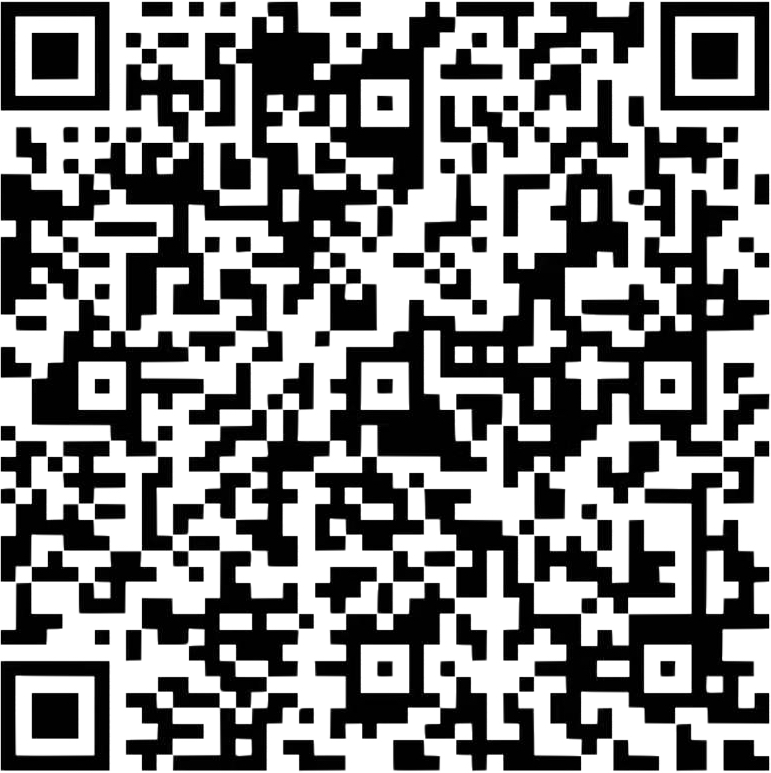
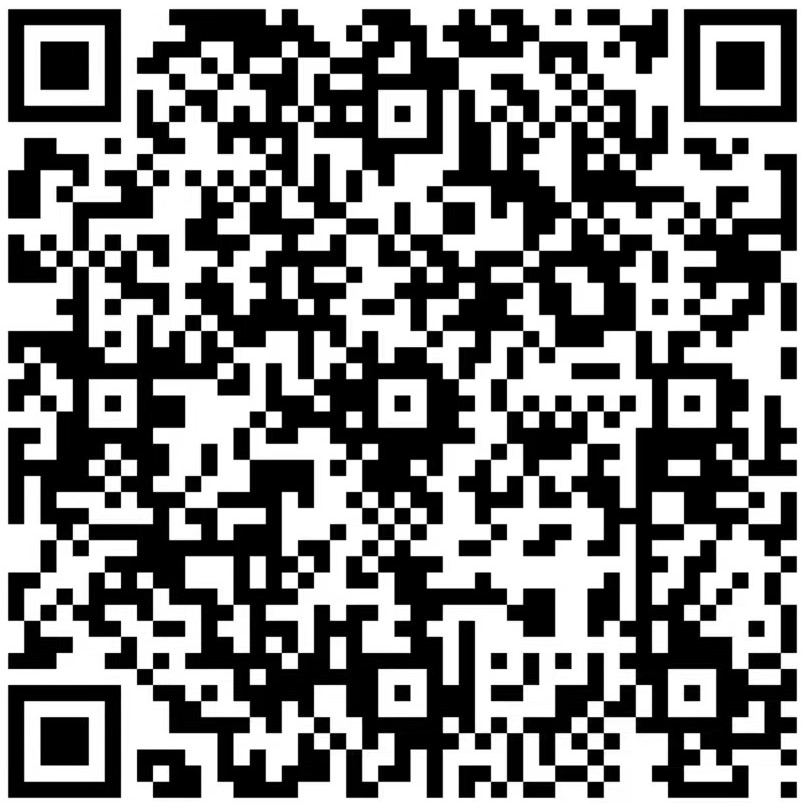
支持一键注册后端

diff --git a/templates/freshman-top.html b/templates/freshman-top.html
@@ -84,7 +84,7 @@
                                             <button class="btn btn-outline-primary btn-sm flex-fill mx-1" type="button"
                                              onclick="expandForm()"
                                              >认证身份信息</button>
-                                            <button class="btn btn-outline-primary btn btn-sm flex-fill mx-1" type="sumbit"  >企业微信一键注册</button>
+                                            <button class="btn btn-outline-primary btn btn-sm flex-fill mx-1" name="type" value="wechat" type="sumbit"  >企业微信一键注册</button>
                                         </div>
                                         <div class="extra-info d-none">
                                             <div class="form-group">

diff --git a/app/views.py b/app/views.py
@@ -1141,6 +1141,47 @@ def accountSetting(request: HttpRequest):
         return render(request, "org_account_setting.html", locals())
 
 
+def _create_freshman_account(sid: str, email: str = None):
+    """创建用户和自然人，检查并修改新生创建状态，原子化操作"""
+    try:
+        with transaction.atomic():
+            current = "获取新生信息"
+            freshman: Freshman = Freshman.objects.select_for_update().get(sid=sid)
+            name = freshman.name
+            np_gender = (NaturalPerson.Gender.MALE
+                         if freshman.gender == "男" else
+                         NaturalPerson.Gender.FEMALE)
+            current = "确认注册状态"
+            assert freshman.status != Freshman.Status.REGISTERED
+            if email is None:
+                domain = "stu.pku.edu.cn" if freshman.grade.startswith("1") else "pku.edu.cn"
+                email = f"{sid}@{domain}"
+            current = "随机生成密码"
+            password = hash_coder.encode(name + str(random.random()))
+            current = "创建用户"
+            user = User.objects.create_user(
+                username=sid, name=name,
+                usertype=UTYPE_PER,
+                password=password
+            )
+            current = "创建个人账号"
+            NaturalPerson.objects.create(
+                person_id=user,
+                stu_id_dbonly=sid,
+                name=name,
+                gender=np_gender,
+                stu_major="元培计划（待定）",
+                stu_grade=freshman.grade,
+                email=email,
+            )
+            current = "更新注册状态"
+            freshman.status = Freshman.Status.REGISTERED
+            freshman.save()
+        return
+    except:
+        return current
+
+
 @log.except_captured(source='views[freshman]', record_user=True,
                      record_request_args=True, show_traceback=True)
 def freshman(request: HttpRequest):
@@ -1158,23 +1199,82 @@ def freshman(request: HttpRequest):
     address_list = sorted(address_set)
     address_list.append("其它")
     html_path = "freshman-top.html"
+    # 准备创建用的变量
+    need_create = False
     if request.method == "POST":
         # 这些也是失败时的前端使用量
         try:
             sid = request.POST["sid"]
             sname = request.POST["sname"]
             gender = request.POST["gender"]
-            birthday = request.POST["birthday"] # 前端使用
-            birthplace = request.POST["birthplace"]
-            email = request.POST["email"]
+            send_to = request.POST.get("type", "")
+            check_more = not send_to
+            if check_more:
+                birthday = request.POST["birthday"] # 前端使用
+                birthplace = request.POST["birthplace"]
+                email = request.POST["email"]
         except:
             err_msg = "提交信息不足"
             return render(request, html_path, locals())
         try:
             sid = str(sid)
-            freshman = Freshman.objects.get(sid=sid)
+            sname = str(sname)
+            gender = str(gender)
+            if check_more:
+                birthday_date = datetime.strptime(birthday, "%Y-%m-%d").date()
+                birthplace = str(birthplace)
+                email = str(email)
         except:
-            err_msg = "不存在该学号信息，你真的是新生吗？"
+            err_msg = "错误的个人信息格式"
+            return render(request, html_path, locals())
+        try:
+            freshman: Freshman = Freshman.objects.get(sid=sid)
+        except:
+            err_msg = "暂不存在该学号的新生信息"
+            return render(request, html_path, locals())
+        try:
+            assert freshman.name == sname, "姓名不匹配"
+            assert freshman.gender == gender, "个人信息错误"
+            if check_more:
+                assert freshman.birthday == birthday_date, "个人信息错误"
+                if freshman.place != "":
+                    assert freshman.place == birthplace, "生源地错误"
+                else:
+                    assert "其它" == birthplace, "生源地错误"
+                assert "@" in email, "请使用合法的邮件地址"
+            assert gender in ["男", "女"], "性别数据异常，请联系管理员"
+        except Exception as e:
+            err_msg = str(e)
+            return render(request, html_path, locals())
+        if check_more:
+            need_create = True
+        elif send_to == "wechat":
+            from wechat_send import send_wechat
+            auth = hash_coder.encode(sid + "_freshman_register")
+            send_wechat(
+                [sid], "新生注册邀请\n点击按钮即可注册账号",
+                url=f"/freshman/?sid={sid}&auth={auth}"
+            )
+            err_msg = "已向企业微信发送注册邀请，点击邀请信息即可注册！"
+            return render(request, html_path, locals())
+    
+    if request.GET.get("sid") is not None and request.GET.get("auth") is not None:
+        sid = request.GET["sid"]
+        auth = request.GET["auth"]
+        if auth != hash_coder.encode(sid + "_freshman_register"):
+            err_msg = "密钥错误，验证失败"
+            return render(request, html_path, locals())
+        need_create = True
+
+    if need_create:
+        try:
+            email = email
+        except:
+            email = None
+        try:
+            freshman: Freshman = Freshman.objects.get(sid=sid)
+        except:
+            err_msg = "暂不存在该学号的新生信息"
             return render(request, html_path, locals())
         try:
             exist = freshman.exists()
@@ -1188,57 +1288,9 @@ def freshman(request: HttpRequest):
         except Exception as e:
             err_msg = str(e)
             return render(request, html_path, locals())
-        try:
-            sname = str(sname)
-            gender = str(gender)
-            birthday_date = datetime.strptime(birthday, "%Y-%m-%d").date()
-            birthplace = str(birthplace)
-            email = str(email)
-        except:
-            err_msg = "错误的个人信息格式"
-            return render(request, html_path, locals())
-        try:
-            assert freshman.name == sname, "姓名不匹配"
-            assert freshman.gender == gender, "个人信息错误"
-            assert freshman.birthday == birthday_date, "个人信息错误"
-            if freshman.place != "":
-                assert freshman.place == birthplace, "生源地错误"
-            else:
-                assert "其它" == birthplace, "生源地错误"
-            assert "@" in email, "请使用合法的邮件地址"
-            assert gender in ["男", "女"], "性别数据异常，请联系管理员"
-        except Exception as e:
-            err_msg = str(e)
-            return render(request, html_path, locals())
 
-        np_gender = NaturalPerson.Gender.MALE if gender == "男" else\
-                    NaturalPerson.Gender.FEMALE
-
-        # 检查通过，这里假设user创建成功后自然人也能创建成功
-        current = "随机生成密码"
-        try:
-            with transaction.atomic():
-                password = hash_coder.encode(sname + str(random.random()))
-                current = "创建用户"
-                user = User.objects.create_user(
-                    username=sid, name=sname,
-                    usertype=UTYPE_PER,
-                    password=password
-                )
-                current = "创建个人账号"
-                NaturalPerson.objects.create(
-                    person_id=user,
-                    stu_id_dbonly=sid,
-                    name=sname,
-                    gender=np_gender,
-                    stu_major="元培计划（待定）",
-                    stu_grade=freshman.grade,
-                    email=email,
-                    )
-                current = "更新注册状态"
-                Freshman.objects.filter(sid=sid).select_for_update().update(
-                    status = Freshman.Status.REGISTERED)
-        except:
+        current = _create_freshman_account(sid, email=email)
+        if current is not None:
             err_msg = f"在{current}时意外发生了错误，请联系管理员"
             return render(request, html_path, locals())
 

diff --git a/app/wechat_send.py b/app/wechat_send.py
@@ -245,7 +245,7 @@ def send_wechat(
     参数(部分)
     --------
     - users: 随机访问容器，如果检查重复，则可以是任何可迭代对象
-    - message: 一段文字，第一个\n被视为标题和内容的分隔符
+    - message: 一段文字，第一个`\\n`被视为标题和内容的分隔符
     - app: 标识应用名的字符串，可以直接使用WechatApp的宏
     - card: 发送文本卡片，建议message长度小于120时开启
     - url: 文本卡片的链接
